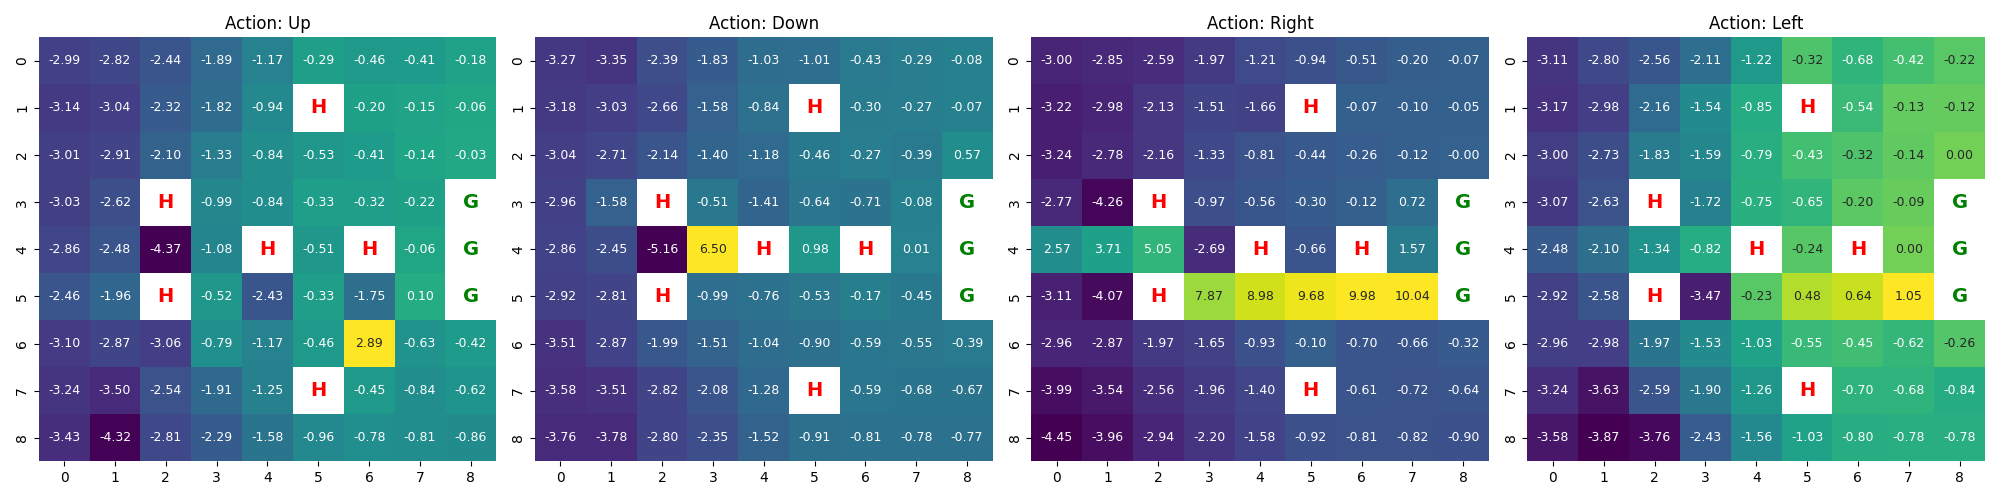
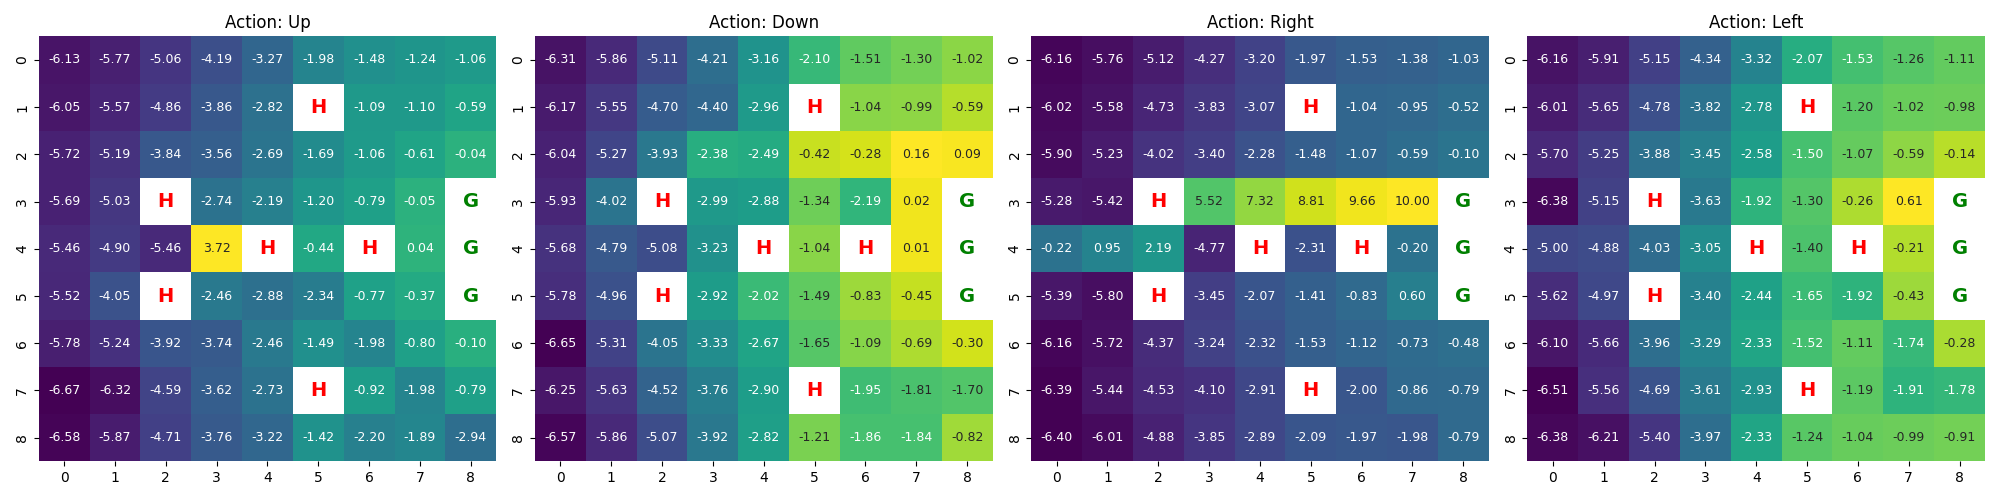
./

diff --git a/main.py b/main.py
@@ -5,11 +5,11 @@ from QLearning import train_q_learning, visualize_q_table, test_q_learning
 
 # ? Setting Flags
 # ! train = True : System will train the agent. train = False : It won't train.
-train = True
+train = False
 # ! visualize_results = True : Save the learning data as image. visualize_results = False : It won't save.
 visualize_results = train
 # ! test = True : Only exploit using q_table.npy. test = False : It won't test.
-test = False
+test = True
 # ! render = True : Render the Environment. render = False : It won't render.
 render = True
 # ! sound = True : Play sound. sound = False : It won't play.
